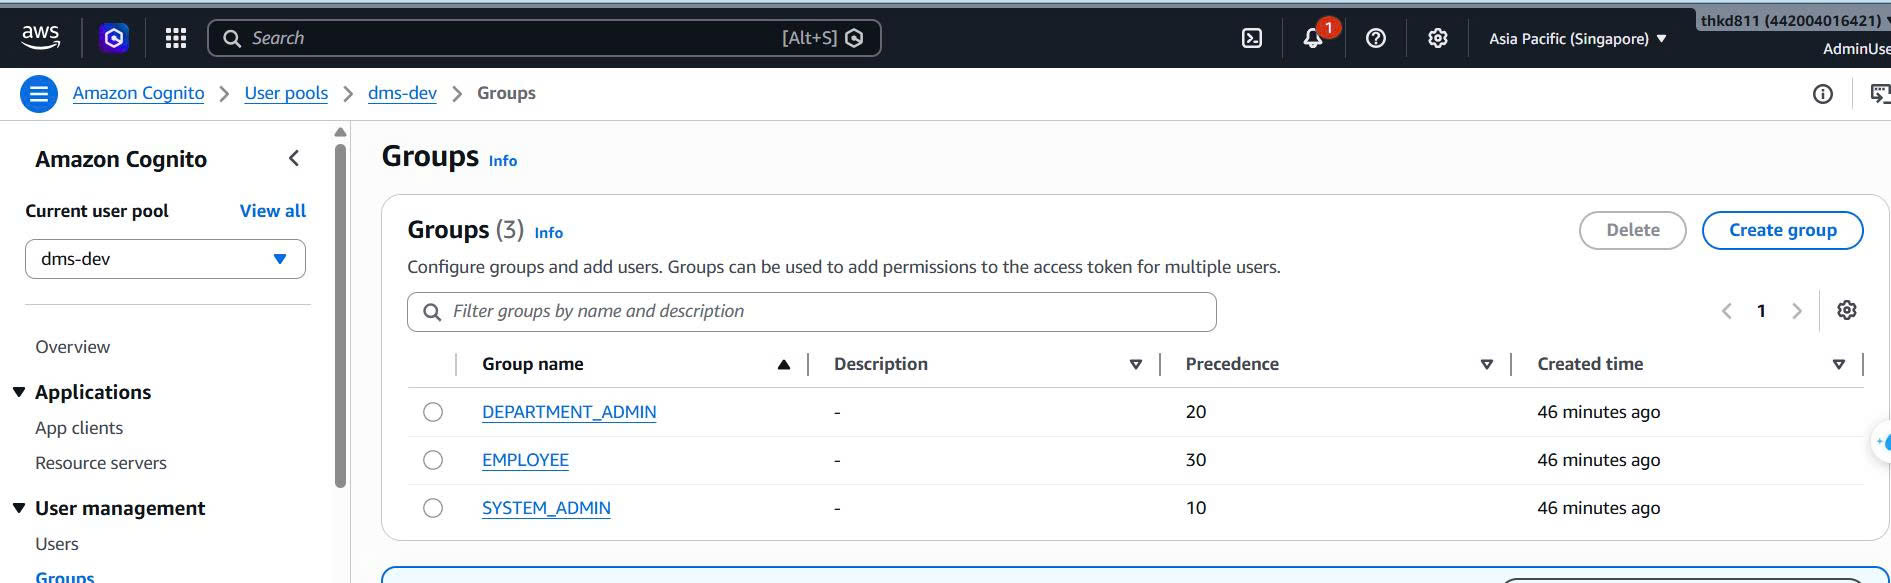
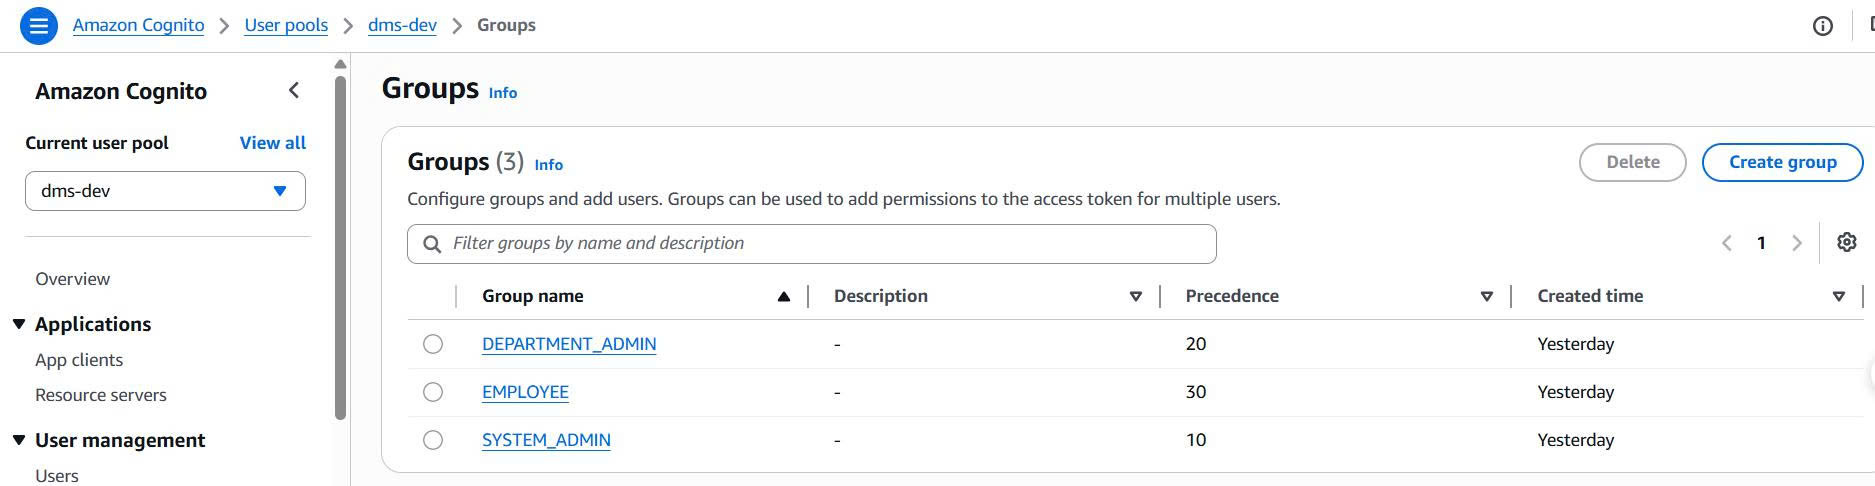
lan 13

diff --git a/content/5-Workshop/5.1-Workshop-overview/_index.md b/content/5-Workshop/5.1-Workshop-overview/_index.md
@@ -19,34 +19,7 @@ The system addresses real-world enterprise pain points:
 
 #### System Architecture Diagram
 
-```
-[React Frontend] → [CloudFront CDN]
-        ↓
-[Cognito] ← JWT Authentication
-        ↓
-[API Gateway + Cognito Authorizer]
-        ↓
-[Lambda Functions]
-   ├── documents         → [DynamoDB]
-   ├── document-detail   → [DynamoDB]
-   ├── upload-intents    → [S3 QuarantineBucket (Presigned URL)]
-   ├── download-intents  → [S3 DocumentsBucket (Presigned URL)]
-   ├── document-sharing  → [DynamoDB]
-   ├── document-audit-events → [DynamoDB]
-   ├── admin-users       → [Cognito User Pool]
-   ├── analytics         → [DynamoDB]
-   └── me                → [DynamoDB / S3]
-
-[S3 QuarantineBucket]
-   → [S3 Event Notification] → [SQS UploadQueue]
-   → [GuardDuty Malware Protection] (tags: CLEAN / THREAT_FOUND)
-   → [Lambda process-upload]
-       ├── CLEAN → move to [S3 DocumentsBucket] + write [DynamoDB]
-       └── THREAT_FOUND → discard + [DynamoDB AuditLog]
-
-[CloudWatch Logs] ← all Lambda functions
-[SNS Alert] ← CloudWatch Alarms (cost / errors)
-```
+![System Architecture Diagram](../../images/architecturalcomplex.png)
 
 #### AWS Services Used
 
@@ -54,10 +27,10 @@ The system addresses real-world enterprise pain points:
 |---|---|
 | **Amazon Cognito** | User pool, JWT auth, 3 user groups (EMPLOYEE / DEPT_ADMIN / SYS_ADMIN) |
 | **API Gateway** | REST API, Cognito Authorizer, per-endpoint IAM authorization |
-| **AWS Lambda** | 11 serverless handlers, Node.js 22, ARM64, X-Ray tracing |
+| **AWS Lambda** | 12 serverless handlers, Node.js 22, ARM64, X-Ray tracing |
 | **Amazon S3** | QuarantineBucket (upload staging), DocumentsBucket (final storage) |
 | **Amazon DynamoDB** | Single-table design, 4 GSIs, PAY_PER_REQUEST billing, PITR enabled |
-| **Amazon SQS** | Upload queue (6-min visibility timeout) + Dead Letter Queue (14-day retention) |
+| **Amazon EventBridge** | Event bus routing S3 events to processing Lambda functions |
 | **GuardDuty** | Malware Protection Plan scanning all quarantine uploads |
 | **Amazon CloudFront** | CDN for React SPA frontend served from S3 |
 | **AWS CDK** | Full IaC deployment in TypeScript |

diff --git a/content/5-Workshop/5.1-Workshop-overview/_index.vi.md b/content/5-Workshop/5.1-Workshop-overview/_index.vi.md
@@ -19,34 +19,7 @@ Hệ thống giải quyết các bài toán thực tế trong doanh nghiệp:
 
 #### Sơ đồ kiến trúc hệ thống
 
-```
-[React Frontend] → [CloudFront CDN]
-        ↓
-[Cognito] ← Xác thực JWT
-        ↓
-[API Gateway + Cognito Authorizer]
-        ↓
-[Các Lambda Function]
-   ├── documents         → [DynamoDB]
-   ├── document-detail   → [DynamoDB]
-   ├── upload-intents    → [S3 QuarantineBucket (Presigned URL)]
-   ├── download-intents  → [S3 DocumentsBucket (Presigned URL)]
-   ├── document-sharing  → [DynamoDB]
-   ├── document-audit-events → [DynamoDB]
-   ├── admin-users       → [Cognito User Pool]
-   ├── analytics         → [DynamoDB]
-   └── me                → [DynamoDB / S3]
-
-[S3 QuarantineBucket]
-   → [S3 Event Notification] → [SQS UploadQueue]
-   → [GuardDuty Malware Protection] (tag: CLEAN / THREAT_FOUND)
-   → [Lambda process-upload]
-       ├── CLEAN → chuyển sang [S3 DocumentsBucket] + ghi [DynamoDB]
-       └── THREAT_FOUND → loại bỏ + ghi [DynamoDB AuditLog]
-
-[CloudWatch Logs] ← tất cả Lambda function
-[SNS Alert] ← CloudWatch Alarms (chi phí / lỗi hệ thống)
-```
+![System Architecture Diagram](../../../images/architecturalcomplex.png)
 
 #### Các dịch vụ AWS sử dụng
 
@@ -54,10 +27,10 @@ Hệ thống giải quyết các bài toán thực tế trong doanh nghiệp:
 |---|---|
 | **Amazon Cognito** | User pool, xác thực JWT, 3 nhóm người dùng (EMPLOYEE / DEPT_ADMIN / SYS_ADMIN) |
 | **API Gateway** | REST API, Cognito Authorizer, phân quyền IAM từng endpoint |
-| **AWS Lambda** | 11 handler serverless, Node.js 22, ARM64, X-Ray tracing |
+| **AWS Lambda** | 12 handler serverless, Node.js 22, ARM64, X-Ray tracing |
 | **Amazon S3** | QuarantineBucket (khu kiểm dịch upload), DocumentsBucket (lưu trữ chính thức) |
 | **Amazon DynamoDB** | Single-table design, 4 GSI, billing PAY_PER_REQUEST, bật PITR |
-| **Amazon SQS** | Hàng đợi upload (visibility timeout 6 phút) + Dead Letter Queue (giữ 14 ngày) |
+| **Amazon EventBridge** | Bus sự kiện định tuyến sự kiện S3 tới các Lambda function |
 | **GuardDuty** | Malware Protection Plan quét toàn bộ file tải vào quarantine |
 | **Amazon CloudFront** | CDN phân phối React SPA từ S3 |
 | **AWS CDK** | Triển khai hạ tầng hoàn toàn bằng TypeScript (IaC) |

diff --git a/content/5-Workshop/_index.md b/content/5-Workshop/_index.md
@@ -19,7 +19,7 @@ The system is deployed via **AWS CDK** (Infrastructure as Code) and integrates t
 - **AWS Lambda** — Serverless business logic handlers (Node.js 22, ARM64)
 - **Amazon S3** — Private document storage (DocumentsBucket) and upload quarantine (QuarantineBucket)
 - **Amazon DynamoDB** — Single-table design with GSI indexes for metadata, versioning, sharing, and audit logs
-- **Amazon SQS** — Asynchronous upload processing queue with Dead Letter Queue
+- **Amazon EventBridge** — Serverless event bus routing S3 events to Lambda
 - **Amazon GuardDuty** — Malware Protection scanning for uploaded files
 - **Amazon CloudFront** — CDN delivery for the React frontend
 - **Amazon CloudWatch** — Centralized log monitoring and cost alerting
@@ -32,16 +32,16 @@ The data flow follows this pattern:
 1. The user logs in via the React frontend using **Cognito** and receives a JWT token.
 2. All API calls go through **API Gateway**, which validates the JWT via Cognito Authorizer.
 3. File uploads use **Presigned URLs** — the frontend uploads directly to **QuarantineBucket** (S3), bypassing API Gateway.
-4. An **S3 event notification** triggers an **SQS message** when a new file lands in the quarantine bucket.
+4. **Amazon EventBridge** routes an `Object Created` event to Lambda when a new file lands in the quarantine bucket.
 5. **GuardDuty Malware Protection** scans the file and tags it with `CLEAN` or `THREAT_FOUND`.
-6. A **Lambda** worker polls the SQS queue, reads the GuardDuty scan tag, moves clean files to **DocumentsBucket**, and writes metadata + version records to **DynamoDB**.
+6. A **Lambda** worker triggered by EventBridge reads the GuardDuty scan tag, moves clean files to **DocumentsBucket**, and writes metadata + version records to **DynamoDB**.
 7. Document sharing, audit logs, analytics, and user management are all handled by dedicated **Lambda** functions.
 
 #### Workshop Content
 
 1. [Workshop Overview](5.1-Workshop-overview/)
 2. [Prerequisites](5.2-Prerequiste/)
-3. [Deploy Infrastructure with AWS CDK](5.3-S3-vpc/)
-4. [Configure Backend & Test APIs](5.4-S3-onprem/)
-5. [Security & Monitoring with GuardDuty and CloudWatch](5.5-Policy/)
+3. [Deploy Infrastructure with AWS CDK](5.3-deploy-infrastructure/)
+4. [Configure Backend & Test APIs](5.4-test-apis/)
+5. [Security & Monitoring with GuardDuty and CloudWatch](5.5-security-monitoring/)
 6. [Clean Up Resources](5.6-Cleanup/)

diff --git a/content/5-Workshop/_index.vi.md b/content/5-Workshop/_index.vi.md
@@ -19,7 +19,7 @@ Hệ thống được triển khai qua **AWS CDK** (Infrastructure as Code) và 
 - **AWS Lambda** — Xử lý logic nghiệp vụ serverless (Node.js 22, ARM64)
 - **Amazon S3** — Lưu trữ tài liệu private (DocumentsBucket) và khu vực kiểm dịch khi upload (QuarantineBucket)
 - **Amazon DynamoDB** — Thiết kế single-table với GSI index cho metadata, versioning, chia sẻ và audit log
-- **Amazon SQS** — Hàng đợi xử lý upload bất đồng bộ với Dead Letter Queue
+- **Amazon EventBridge** — Bus sự kiện serverless định tuyến sự kiện S3 tới Lambda
 - **Amazon GuardDuty** — Quét malware cho các file được tải lên
 - **Amazon CloudFront** — Phân phối CDN cho giao diện React frontend
 - **Amazon CloudWatch** — Giám sát log tập trung và cảnh báo chi phí
@@ -32,16 +32,16 @@ Luồng dữ liệu hoạt động theo trình tự sau:
 1. Người dùng đăng nhập qua giao diện React bằng **Cognito** và nhận về JWT token.
 2. Mọi lời gọi API đều đi qua **API Gateway**, được xác thực JWT thông qua Cognito Authorizer.
 3. Việc tải file lên sử dụng **Presigned URL** — frontend tải trực tiếp lên **QuarantineBucket** (S3), bỏ qua API Gateway để tránh giới hạn 10MB.
-4. Một **S3 event notification** kích hoạt **SQS message** khi có file mới vào quarantine bucket.
+4. **Amazon EventBridge** định tuyến sự kiện `Object Created` tới Lambda khi có file mới vào quarantine bucket.
 5. **GuardDuty Malware Protection** quét file và gắn tag `CLEAN` hoặc `THREAT_FOUND`.
-6. Một **Lambda** worker lắng nghe SQS queue, đọc tag kết quả quét GuardDuty, di chuyển file sạch sang **DocumentsBucket** và ghi metadata + bản ghi version vào **DynamoDB**.
+6. Một **Lambda** worker được kích hoạt bởi EventBridge đọc tag kết quả quét GuardDuty, di chuyển file sạch sang **DocumentsBucket** và ghi metadata + bản ghi version vào **DynamoDB**.
 7. Chia sẻ tài liệu, audit log, analytics và quản lý người dùng được xử lý bởi các **Lambda** function riêng biệt.
 
 #### Nội dung Workshop
 
 1. [Tổng quan về workshop](5.1-Workshop-overview/)
 2. [Chuẩn bị môi trường](5.2-Prerequiste/)
-3. [Triển khai hạ tầng bằng AWS CDK](5.3-S3-vpc/)
-4. [Cấu hình Backend và kiểm thử API](5.4-S3-onprem/)
-5. [Bảo mật & Giám sát với GuardDuty và CloudWatch](5.5-Policy/)
+3. [Triển khai hạ tầng bằng AWS CDK](5.3-deploy-infrastructure/)
+4. [Cấu hình Backend và kiểm thử API](5.4-test-apis/)
+5. [Bảo mật & Giám sát với GuardDuty và CloudWatch](5.5-security-monitoring/)
 6. [Dọn dẹp tài nguyên](5.6-Cleanup/)

diff --git a/content/5-Workshop/5.6-Cleanup/_index.md b/content/5-Workshop/5.6-Cleanup/_index.md
@@ -26,10 +26,10 @@ Are you sure you want to delete: DmsStack-dev (y/n)? y
 This command will automatically delete:
 - All 3 S3 buckets (FrontendBucket, QuarantineBucket, DocumentsBucket) and their contents
 - DynamoDB table `dms-dev` and all data
-- All 11 Lambda functions and their CloudWatch Log Groups
+- All 12 Lambda functions and their CloudWatch Log Groups
 - API Gateway REST API
 - Cognito User Pool and all users
-- SQS queues (UploadQueue and DeadLetterQueue)
+- EventBridge Rules and targets
 - CloudFront distribution
 - SNS topic and email subscriptions
 - GuardDuty Malware Protection Plan and IAM role

diff --git a/content/5-Workshop/5.6-Cleanup/_index.vi.md b/content/5-Workshop/5.6-Cleanup/_index.vi.md
@@ -26,10 +26,10 @@ Are you sure you want to delete: DmsStack-dev (y/n)? y
 Lệnh này sẽ tự động xóa:
 - Cả 3 S3 bucket (FrontendBucket, QuarantineBucket, DocumentsBucket) và toàn bộ nội dung bên trong
 - Bảng DynamoDB `dms-dev` và toàn bộ dữ liệu
-- Tất cả 11 Lambda function và CloudWatch Log Group của chúng
+- Tất cả 12 Lambda function và CloudWatch Log Group của chúng
 - REST API trên API Gateway
 - Cognito User Pool và tất cả người dùng
-- SQS queue (UploadQueue và DeadLetterQueue)
+- Các EventBridge Rule và target
 - CloudFront distribution
 - SNS topic và các email subscription
 - GuardDuty Malware Protection Plan và IAM role

diff --git a/content/5-Workshop/5.2-Prerequiste/_index.md b/content/5-Workshop/5.2-Prerequiste/_index.md
@@ -10,7 +10,7 @@ Before deploying the DMS project, make sure the following tools and accounts are
 
 #### 1. Required Accounts & Access
 
-- **AWS Account** with sufficient permissions to create IAM roles, Lambda, S3, DynamoDB, Cognito, CloudFront, SQS, GuardDuty, SNS, CloudWatch, and CDK Bootstrap resources.
+- **AWS Account** with sufficient permissions to create IAM roles, Lambda, S3, DynamoDB, Cognito, CloudFront, EventBridge, GuardDuty, SNS, CloudWatch, and CDK Bootstrap resources.
 - **AWS CLI** configured with a profile that has the required permissions.
 
 #### 2. Required Tools